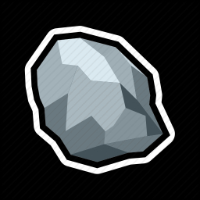
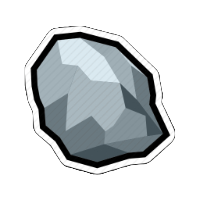
Removed background from the rock,paper,scissor images + updated HTML templates to reference the new images.

diff --git a/rock_paper_scissors/templates/rock_paper_scissors_play.html b/rock_paper_scissors/templates/rock_paper_scissors_play.html
@@ -20,7 +20,7 @@
                                 <div class="carousel-inner">
 
                                     <div class="carousel-item active" data-value="paper">
-                                        <img src="{% static 'assets/paper.jpg' %}" alt="Picture of a paper">
+                                        <img src="{% static 'assets/paper.png' %}" alt="Picture of a paper">
                                     </div>
 
                                     <div class="carousel-item" data-value="rock">
@@ -28,7 +28,7 @@
                                     </div>
 
                                     <div class="carousel-item" data-value="scissors">
-                                        <img src="{% static 'assets/scissors.jpg' %}" alt="Picture of scissors">
+                                        <img src="{% static 'assets/scissors.png' %}" alt="Picture of scissors">
                                     </div>
 
                                 </div>
@@ -50,7 +50,7 @@
                                 <div class="carousel-inner">
 
                                     <div id="paper_computer" class="carousel-item active" style="display: none;">
-                                        <img src="{% static 'assets/paper.jpg' %}" alt="Picture of a paper">
+                                        <img src="{% static 'assets/paper.png' %}" alt="Picture of a paper">
                                     </div>
 
                                     <div id="rock_computer" class="carousel-item" style="display: none;">
@@ -58,7 +58,7 @@
                                     </div>
 
                                     <div id="scissors_computer" class="carousel-item" style="display: none;">
-                                        <img src="{% static 'assets/scissors.jpg' %}" alt="Picture of scissors">
+                                        <img src="{% static 'assets/scissors.png' %}" alt="Picture of scissors">
                                     </div>
 
                                 </div>

diff --git a/templates/multiplayer_rock_paper_scissors_play.html b/templates/multiplayer_rock_paper_scissors_play.html
@@ -22,7 +22,7 @@
                                 <div class="carousel-inner">
 
                                     <div class="carousel-item active" data-value="paper">
-                                        <img src="{% static 'assets/paper.jpg' %}" alt="Picture of a paper">
+                                        <img src="{% static 'assets/paper.png' %}" alt="Picture of a paper">
                                     </div>
 
                                     <div class="carousel-item" data-value="rock">
@@ -30,7 +30,7 @@
                                     </div>
 
                                     <div class="carousel-item" data-value="scissors">
-                                        <img src="{% static 'assets/scissors.jpg' %}" alt="Picture of scissors">
+                                        <img src="{% static 'assets/scissors.png' %}" alt="Picture of scissors">
                                     </div>
 
                                 </div>
@@ -52,7 +52,7 @@
                                 <div class="carousel-inner">
 
                                     <div id="paper_opponent" class="carousel-item active" style="display: none;">
-                                        <img src="{% static 'assets/paper.jpg' %}" alt="Picture of a paper">
+                                        <img src="{% static 'assets/paper.png' %}" alt="Picture of a paper">
                                     </div>
 
                                     <div id="rock_opponent" class="carousel-item" style="display: none;">
@@ -60,7 +60,7 @@
                                     </div>
 
                                     <div id="scissors_opponent" class="carousel-item" style="display: none;">
-                                        <img src="{% static 'assets/scissors.jpg' %}" alt="Picture of scissors">
+                                        <img src="{% static 'assets/scissors.png' %}" alt="Picture of scissors">
                                     </div>
 
                                 </div>
